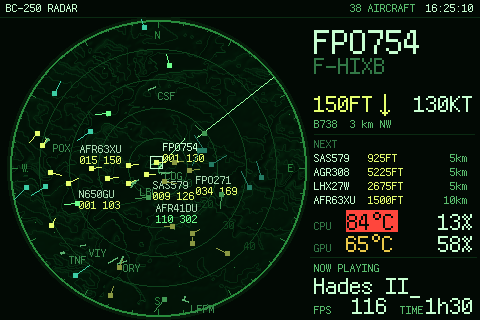
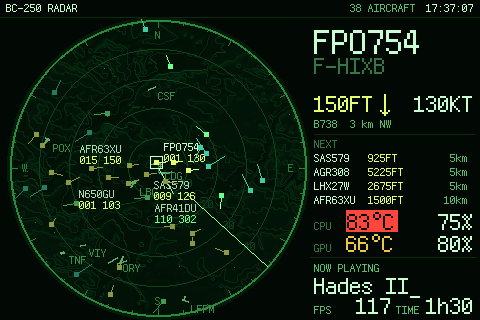
Smooth radar sweep: widgets send only changed pixels; readable radar status line
Every BC-250 widget now draws through one changed-pixels-only sender, set up
from the dashboard background (and shared with the radar's thread): a
blinking cursor costs the cursor, an unchanged value nothing. The status
line used to resend its whole box every second, a burst that held the
radar's sweep back for up to 280 ms once a second; with an emulated rev A
link the widgets' share drops from 18% to 6% and the sweep keeps its pace.
Each small widget is still fully repainted once a minute.

Radar status line: "on watch" when idle, long texts in the small font on
up to two lines instead of cut, column values in the small font when they
don't fit beside their label, equal columns.

diff --git a/library/sensors/sensors_bc250.py b/library/sensors/sensors_bc250.py
@@ -100,6 +100,8 @@ def _duration(seconds: Optional[float]) -> str:
 # ---------------------------------------------------------------------------------------------------------------------
 class _Draw:
     enabled = True  # bc250_check.py turns this off: reading sensors there must never talk to the screen
+    screen = None  # the _Screen all widgets draw through, once the app has drawn the theme's background
+    _repainted = {}
     _fonts = {}
     _backgrounds = {}
     _failed = set()
@@ -145,6 +147,14 @@ class _Draw:
 
     @classmethod
     def show(cls, image, box: dict):
+        if cls.screen is not None:  # only the pixels that changed (a blinking cursor: just the cursor)
+            key, now = (box["X"], box["Y"], image.width, image.height), time.monotonic()
+            # ...and once a minute the whole widget, should the screen have lost what it showed
+            full = image.width * image.height <= 20000 and now - cls._repainted.get(key, 0) > 60
+            if full:
+                cls._repainted[key] = now
+            cls.screen.DisplayPILImage(image, box["X"], box["Y"], full=full)
+            return
         from library.display import display
         display.lcd.DisplayPILImage(image, box["X"], box["Y"])
 
@@ -1091,8 +1101,11 @@ class Bc250Radar:
     def _animate(spec: dict):
         from library.display import display
         radar = _Radar(spec, display.lcd, _Draw.background(spec.get("BACKGROUND_IMAGE", "background.png")))
-        import numpy
-        radar.lcd.shadow = numpy.asarray(radar.base).copy()  # the app has just drawn the background
+        if _Draw.screen is not None:
+            radar.lcd = _Draw.screen  # shared with the other widgets: it knows the screen shows the background
+        else:
+            import numpy
+            radar.lcd.shadow = numpy.asarray(radar.base).copy()  # the app has just drawn the background
         frame = 1 / float(spec.get("FPS", 8))
         while True:
             start = time.monotonic()
@@ -1828,7 +1841,9 @@ class Bc250Prompt:
             for i, ((label, value), (xl, xr)) in enumerate(zip(state["cols"], spec["COLS"])):
                 warn = i == len(state["cols"]) - 1 and state.get("alert_col")  # e.g. a stalled shader job
                 d.text((xl - ox, cols_bl), label, font=small, fill=label_c, anchor="ls")
-                d.text((xr - ox, cols_bl), value, font=big, fill=amber if warn else bright, anchor="rs")
+                fits = d.textlength(label, font=small) + d.textlength(value, font=big) + 6 <= xr - xl
+                d.text((xr - ox, cols_bl), value, font=big if fits else small, fill=amber if warn else bright,
+                       anchor="rs")  # a narrow column: the small font rather than over its label
         else:
             # landscape: columns on the value row, laid out from the right edge
             right_edges = [spec["COL2_XR"] - ox, spec["COL1_XR"] - ox]
@@ -1838,10 +1853,29 @@ class Bc250Prompt:
                 d.text((xr, value_bl), value, font=big, fill=amber if warn else bright, anchor="rs")
 
         room = spec["MAX_CHARS"] if len(state["cols"]) > 1 else spec["MAX_CHARS_WIDE"]
-        if len(text) > room:
-            text = text[:room - 1] + "~"
         mark = spec.get("CURSOR", "_")
-        d.text((spec["TEXT_X"] - ox, value_bl), text + (mark if cursor else ""), font=big, fill=bright, anchor="ls")
+        if len(text) > room and spec.get("SMALL_FALLBACK"):
+            # a narrow box: the small font, on two lines if needed, rather than cutting the name
+            per_line = room * 2
+            words, lines = text.split(), [""]
+            for word in words:
+                if len(lines[-1]) + len(word) + (1 if lines[-1] else 0) <= per_line:
+                    lines[-1] += (" " if lines[-1] else "") + word
+                elif len(lines) < 2:
+                    lines.append(word[:per_line])
+                else:
+                    lines[-1] = (lines[-1] + " " + word)[:per_line - 1] + "~"
+                    break
+            lines = [line[:per_line] for line in lines]
+            tops = [value_bl - 11, value_bl] if len(lines) == 2 else [value_bl - 4]
+            for i, (line, bl) in enumerate(zip(lines, tops)):
+                d.text((spec["TEXT_X"] - ox, bl), line + (mark if cursor and i == len(lines) - 1 else ""),
+                       font=small, fill=bright, anchor="ls")
+        else:
+            if len(text) > room:
+                text = text[:room - 1] + "~"
+            d.text((spec["TEXT_X"] - ox, value_bl), text + (mark if cursor else ""), font=big, fill=bright,
+                   anchor="ls")
         _Draw.show(image, area)
 
     def as_numeric(self) -> float:
@@ -2066,6 +2100,8 @@ class _Screen:
     def __init__(self, lcd, width: int, height: int):
         self.lcd, self.width, self.height = lcd, width, height
         self.shadow = None  # what is on the screen (numpy HxWx3) once a full frame has been sent
+        import threading
+        self._lock = threading.Lock()  # the radar's thread and the widgets' thread can share one
         self.sent = 0  # bytes
 
     def SetBrightness(self, level: int):
@@ -2135,7 +2171,11 @@ class _Screen:
         self.lcd.DisplayPILImage(image, x, y)
         self.sent += image.width * image.height * 2
 
-    def DisplayPILImage(self, image, x: int = 0, y: int = 0, *args, **kwargs):
+    def DisplayPILImage(self, image, x: int = 0, y: int = 0, *args, full: bool = False, **kwargs):
+        with self._lock:
+            self._display(image, x, y, full)
+
+    def _display(self, image, x, y, full=False):
         import numpy
         image = image.convert("RGB")
         w, h = min(image.width, self.width - x), min(image.height, self.height - y)
@@ -2157,8 +2197,11 @@ class _Screen:
             self.shadow = new.copy()
             return
         old = self.shadow[y:y + h, x:x + w]
-        for x1, y1, x2, y2 in self._rects((new != old).any(axis=2), self.TILE):
-            self._send(image.crop((x1, y1, x2, y2)), x + x1, y + y1)
+        if full:
+            self._send(image, x, y)
+        else:
+            for x1, y1, x2, y2 in self._rects((new != old).any(axis=2), self.TILE):
+                self._send(image.crop((x1, y1, x2, y2)), x + x1, y + y1)
         old[...] = new
 
 
@@ -3347,6 +3390,19 @@ class _RadarSplash:
         _Splash._run(1.2, sweep)
 
 
+def _shared_screen(lcd):
+    """After the app draws the background: one _Screen for every BC-250 widget, knowing that the screen now shows
+    that background. The app's own widgets draw elsewhere, so what it knows of our areas stays true."""
+    import numpy
+    from library import config
+    background = config.THEME_DATA["static_images"]["BACKGROUND"]
+    image = _Draw.background(background.get("PATH", "background.png"))
+    screen = _Screen(lcd, *image.size)
+    screen.shadow = numpy.asarray(image).copy()
+    screen.TILE = 10
+    _Draw.screen = screen
+
+
 def _serialize_display(lcd):
     """The app queues a bitmap as a command, then its pixel data, under two separate locks: two threads drawing at
     once can interleave them (the radar draws from a thread of its own). One lock around the whole call fixes it."""
@@ -3378,6 +3434,7 @@ def _install_splash_hook():
     def display_static_images(self):
         _attempt("boot splash", lambda: _Splash.play(self.lcd))
         original(self)
+        _attempt("widget screen", lambda: _shared_screen(self.lcd))
 
     type(display).display_static_images = display_static_images
     type(display)._bc250_splash = True

diff --git a/make_theme.py b/make_theme.py
@@ -338,7 +338,7 @@ def set_layout(portrait: bool, skin: str = "phosphor"):
         if not portrait:
             PROMPT_Y, PROMPT_LABEL_BL, PROMPT_VALUE_BL, PROMPT_COLS_BL = 258, 272, 294, 314
             PROMPT_X, PROMPT_XR, PROMPT_AREA = 314, 474, (312, 260, 166, 60)
-            PROMPT_COLS = [[314, 388], [400, 474]]
+            PROMPT_COLS = [[314, 392], [396, 474]]
         else:
             PROMPT_Y, PROMPT_LABEL_BL, PROMPT_VALUE_BL, PROMPT_COLS_BL = 432, 444, 470, None
             PROMPT_X, PROMPT_XR, PROMPT_AREA, PROMPT_COL1_XR = 8, 312, (4, 434, 312, 46), 236
@@ -501,7 +501,7 @@ NIXIE_WORDS = {"boot": "WARMING UP", "now-playing": "NOW PLAYING", "downloading"
 # Radar status line wording
 RADAR_WORDS = {"boot": "STARTING", "now-playing": "NOW PLAYING", "downloading": "DOWNLOADING", "installing": "INSTALLING",
                "verifying": "VERIFYING", "fossilize_replay": "SHADERS", "last-session": "LAST GAME", "idle": "STANDBY",
-               "idle-text": "watching the sky"}
+               "idle-text": "on watch"}
 
 
 def videotex_code(logo):
@@ -543,7 +543,7 @@ def build_theme(title, prompt, user):
     if SKIN_NAME == "nixie":
         prompt_spec.update({"CMD_WORDS": NIXIE_WORDS, "LABEL_COLOR": rgb(NX_BRASS)})
     if SKIN_NAME == "radar":
-        prompt_spec.update({"CMD_WORDS": RADAR_WORDS, "LABEL_COLOR": rgb(SKIN["mid"]),
+        prompt_spec.update({"CMD_WORDS": RADAR_WORDS, "LABEL_COLOR": rgb(SKIN["mid"]), "SMALL_FALLBACK": True,
                             "COL_WORDS": {"SESSION": "TIME", "PEAK C/G": "PEAK", "SHADERS": "DONE"}})
     if SKIN_NAME == "minecraft":  # white and yellow on the dark chat box
         prompt_spec.update({"CMD_WORDS": dict(MINECRAFT_WORDS, **{"idle-text": f"{user} is AFK"}),
